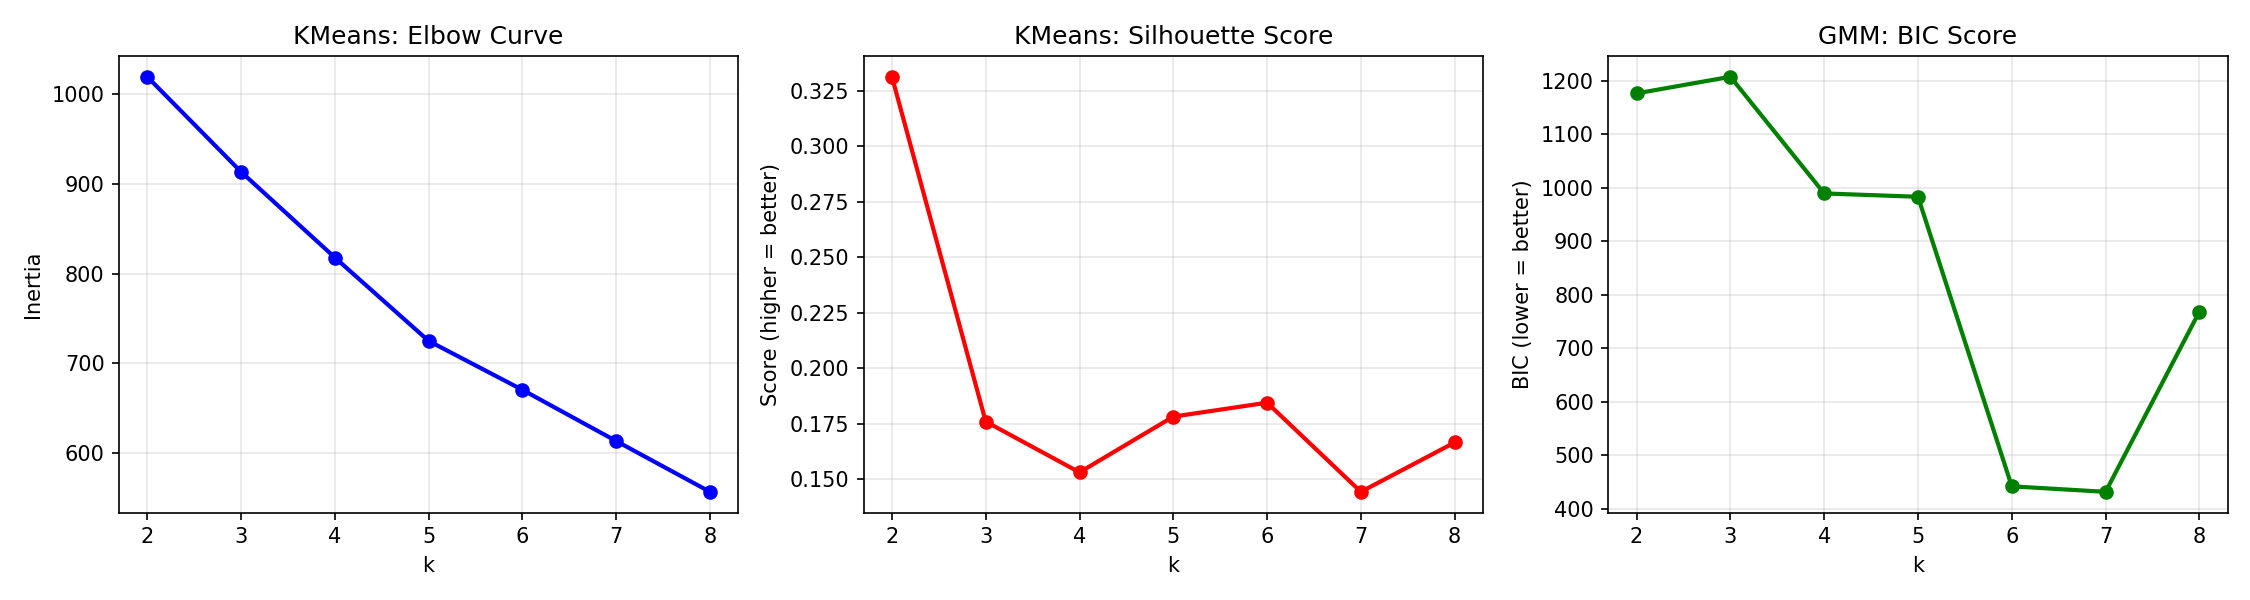
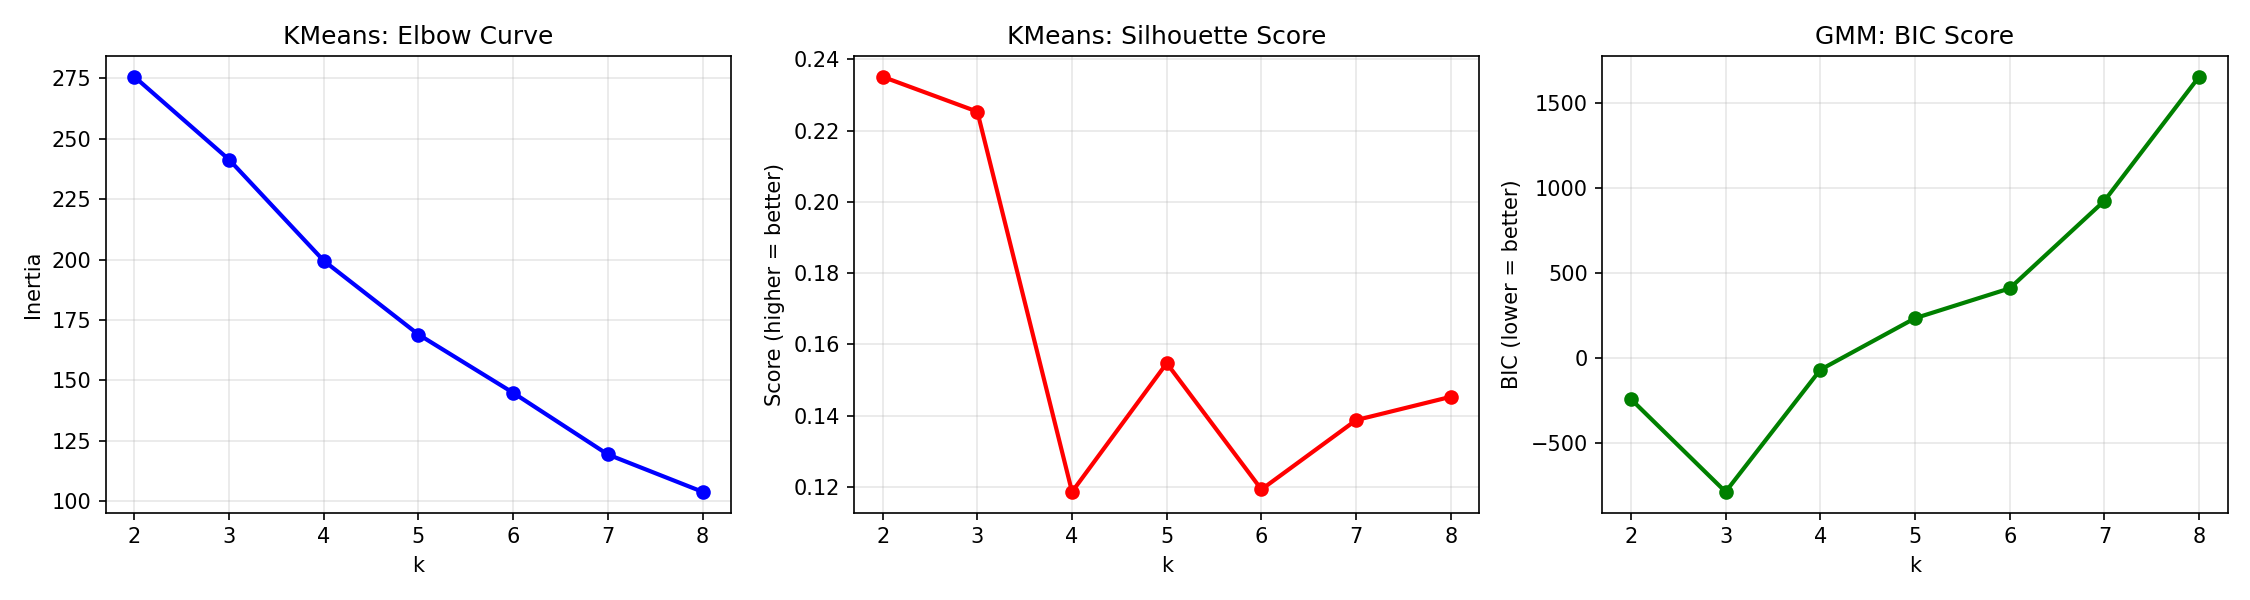
feat: cluster on player-level features across 21 players

diff --git a/src/clustering.py b/src/clustering.py
@@ -11,11 +11,24 @@ import warnings
 warnings.filterwarnings("ignore")
 
 FEATURE_COLS = [
-    "panic_score", "time_per_move",
-    "capture_rate", "sacrifice_rate", "check_rate",
-    "early_aggression", "castle_move", "piece_activity",
-    "avg_material_diff", "gambit_tendency", "sharp_opening",
-    "decisive_game"
+    "panic_score_mean",
+    "panic_score_std",
+    "time_per_move_mean",
+    "capture_rate_mean",
+    "capture_rate_std",
+    "sacrifice_rate_mean",
+    "check_rate_mean",
+    "early_aggression_mean",
+    "piece_activity_mean",
+    "avg_material_diff",
+    "castle_rate",
+    "avg_castle_move",
+    "gambit_rate",
+    "sharp_opening_rate",
+    "win_rate",
+    "draw_rate",
+    "decisive_rate",
+    "avg_game_length",
 ]
 
 # ── PREP ────────────────────────────────────────────────────────────
@@ -189,48 +202,46 @@ def print_summary(scores: list) -> None:
     best = max(scores, key=lambda x: x[1])
     print(f"\nWinner: {best[0]} (silhouette={best[1]:.3f})")
 
-# ── MAIN ────────────────────────────────────────────────────────────
 if __name__ == "__main__":
-    df = pd.read_csv("data/features.csv")
+    df = pd.read_csv("data/features_player_level.csv")
     X, df_clean, scaler = prepare_features(df)
     
-    # Find optimal k first
     print("Finding optimal k...")
     best_k = find_optimal_k(X)
     
-    # Run all models
     print(f"\nRunning all models with k={best_k}...")
+    km_labels,  km_sil,  km_db,  km_model         = run_kmeans(X, best_k)
+    gmm_labels, gmm_sil, gmm_db, gmm_model, probs  = run_gmm(X, best_k)
+    db_labels,  db_sil,  db_db,  db_model          = run_dbscan(X)
+    hc_labels,  hc_sil,  hc_db,  hc_model          = run_hierarchical(X, best_k)
     
-    km_labels,  km_sil,  km_db,  km_model          = run_kmeans(X, best_k)
-    gmm_labels, gmm_sil, gmm_db, gmm_model, probs   = run_gmm(X, best_k)
-    db_labels,  db_sil,  db_db,  db_model           = run_dbscan(X)
-    hc_labels,  hc_sil,  hc_db,  hc_model           = run_hierarchical(X, best_k)
-    
-    # Comparison plot
     plot_comparison(X, {
-        f"KMeans (k={best_k})":        km_labels,
-        f"GMM (k={best_k})":           gmm_labels,
-        "DBSCAN (auto k)":             db_labels,
-        f"Hierarchical (k={best_k})":  hc_labels,
+        f"KMeans (k={best_k})":       km_labels,
+        f"GMM (k={best_k})":          gmm_labels,
+        "DBSCAN (auto k)":            db_labels,
+        f"Hierarchical (k={best_k})": hc_labels,
     })
     
-    # Summary
     print_summary([
-        ("KMeans",        km_sil,  km_db),
-        ("GMM",           gmm_sil, gmm_db),
-        ("DBSCAN",        db_sil,  db_db),
-        ("Hierarchical",  hc_sil,  hc_db),
+        ("KMeans",       km_sil,  km_db),
+        ("GMM",          gmm_sil, gmm_db),
+        ("DBSCAN",       db_sil,  db_db),
+        ("Hierarchical", hc_sil,  hc_db),
     ])
     
-    # Save best model results
-    df_clean["cluster_kmeans"]      = km_labels
-    df_clean["cluster_gmm"]         = gmm_labels
-    df_clean["cluster_dbscan"]      = db_labels
-    df_clean["cluster_hierarchical"]= hc_labels
+    # Add cluster labels to player df
+    df_clean["cluster_kmeans"]       = km_labels
+    df_clean["cluster_gmm"]          = gmm_labels
+    df_clean["cluster_dbscan"]       = db_labels
+    df_clean["cluster_hierarchical"] = hc_labels
     
-    # GMM soft probabilities — unique value of GMM
     for i in range(probs.shape[1]):
         df_clean[f"gmm_prob_cluster_{i}"] = probs[:, i]
     
-    df_clean.to_csv("data/clustered_games.csv", index=False)
-    print("\nSaved all model results to data/clustered_games.csv")
+    df_clean.to_csv("data/clustered_players.csv", index=False)
+    print("\nSaved to data/clustered_players.csv")
+    
+    # Print which player landed in which cluster
+    print("\nPlayer cluster assignments (KMeans):")
+    print(df_clean[["username", "cluster_kmeans"]].sort_values(
+        "cluster_kmeans").to_string())
